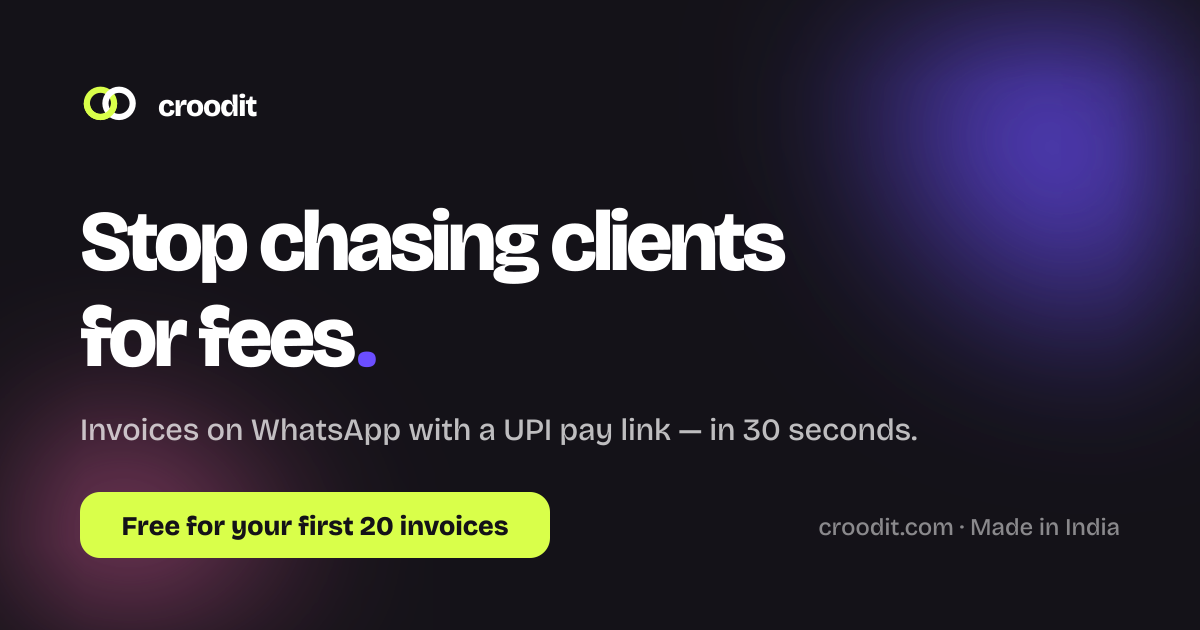
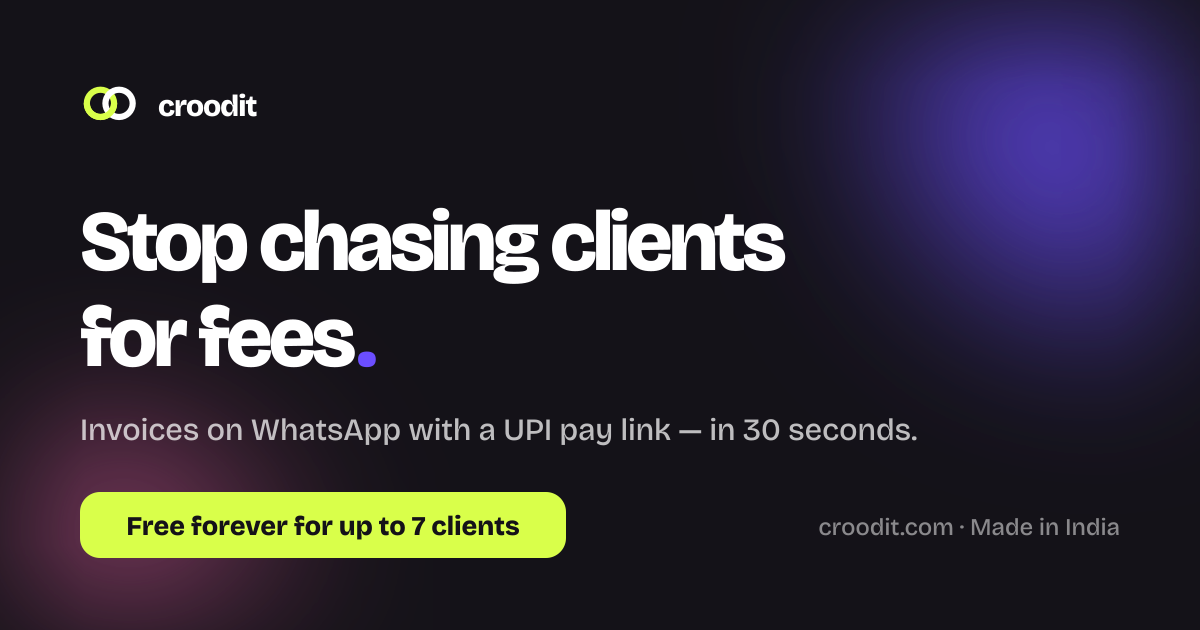
Free tier: 7 clients forever, replacing 20 lifetime invoices (#1)
Zoho Invoice, Vyapar mobile and Khatabook are all free forever, so a
lifetime invoice cap walled users at the exact moment three free
alternatives did not. Clients also track a trainer's income; an invoice
count does not.

Price is unchanged: Pro stays Rs 199/month or Rs 1,599/year.

SITE.freeInvoices -> SITE.freeClients = 7. Updates hero and final-CTA
copy, meta description, the Free Offer in JSON-LD, the cost FAQ, the
claim sheet behind /llms.txt, the terms free-tier clause and the OG card.
Adds an 8th-client FAQ so the upgrade moment is answered on the page.

Approved by sha on MAR-388.

Changed region(s): [[0.0925, 0.7841, 0.4933, 0.9048]]

diff --git a/src/data/faq.ts b/src/data/faq.ts
@@ -10,7 +10,11 @@ export const faq = [
   },
   {
     q: "How much does Croodit cost?",
-    a: "Your first 20 invoices are free — no card, no GST registration needed. After that, Croodit Pro is ₹199 per month or ₹1,599 per year, with a 14-day free trial. Pro adds unlimited nudges, monthly GST reports for your CA, your own pay-link domain and attendance QR check-in.",
+    a: "Croodit is free forever for up to 7 clients — unlimited invoices to them, unlimited reminders, no card and no GST registration needed. Croodit Pro lifts the limit to unlimited clients at ₹199 per month or ₹1,599 per year, after a 14-day free trial. Pro also adds monthly GST reports for your CA, your own pay-link domain and attendance QR check-in.",
+  },
+  {
+    q: "What happens when I get my 8th client?",
+    a: "Nothing breaks. The 7 clients you already have keep working exactly as before — their invoices, history and reminders are untouched. Adding an 8th client is what starts your 14-day Pro trial, and Pro is ₹199 per month or ₹1,599 per year for unlimited clients. If you never go past 7 clients, you never pay anything.",
   },
   {
     q: "Do I need GST registration to use Croodit?",

diff --git a/src/data/facts.ts b/src/data/facts.ts
@@ -8,7 +8,7 @@ export const context =
 export const facts = [
   "Product: Croodit (mobile app, iPhone first; Android on a waitlist).",
   "Made for: India. Currency INR. Languages: English, Hindi, Hinglish.",
-  "Price: first 20 invoices free, no card required. Croodit Pro is Rs 199/month or Rs 1,599/year after a 14-day free trial.",
+  "Price: free forever for up to 7 clients, with unlimited invoices and unlimited reminders to them, and no card required. Croodit Pro lifts the limit to unlimited clients for Rs 199/month or Rs 1,599/year, after a 14-day free trial.",
   "Typical time to send an invoice: about 30 seconds.",
   "Payments: a standard UPI intent, so Google Pay, PhonePe, Paytm, BHIM and bank apps all work. A QR code and the UPI ID also appear on the invoice.",
   "Reminders: local notifications to the user on day 3, 7 and 10. The user taps and sends; Croodit never messages a client by itself.",

diff --git a/src/site.ts b/src/site.ts
@@ -7,8 +7,8 @@ export const SITE = {
   appStoreUrl: null as string | null,
   /** Set once the Android app is live. */
   playStoreUrl: null as string | null,
-  /** Free tier, as promised on the landing page. */
-  freeInvoices: 20,
+  /** Free-forever tier: unlimited invoices, capped on clients. */
+  freeClients: 7,
   pro: { monthly: 199, yearly: 1599, trialDays: 14 },
 };
 

diff --git a/README.md b/README.md
@@ -30,7 +30,7 @@ npm run build    # -> dist/
 
 ## Rules that matter
 
-- **Claims must be true.** Prices, the free-invoice count and feature claims live in `src/site.ts` and
+- **Claims must be true.** Prices, the free-client limit and feature claims live in `src/site.ts` and
   `src/data/facts.ts`. Change them there, never inline in a page, and never state something the product
   doesn't do.
 - **Croodit never messages a client by itself.** This is the product's core promise. Don't write copy that
